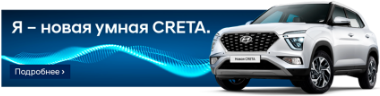
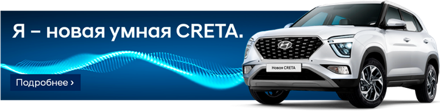
v0.16

diff --git a/js/app.js b/js/app.js
@@ -21,7 +21,7 @@ $(document).ready(function()
     template_toyota_parnas='<table><tr><td>С уважением,<br>{имя} {фамилия}<br><br>{должность}<br>Тойота Центр Парнас<br>Тел.: {tel}, {доб.}<br>Моб.: {mob}<br>Схема проезда доступна по ссылке:<br><a href="http://iat24.ru/link/63b6">http://iat24.ru/link/</a></td></tr><tr><td><img src="'+url+'logo_iat.png" alt="iat" style="margin-top:15px;"></td></tr><tr><td style="padding-top: 15px;"><a href="//iat.ru">www.iat.ru</a> | <a href="//toyotacenter.ru">www.toyotacenter.ru</a> | <a href="//lexuscenter.ru">www.lexuscenter.ru</a></td></tr><tr><td style="padding-top: 15px;">CКАЧАЙТЕ МОБИЛЬНОЕ ПРИЛОЖЕНИЕ<br><span style="color:#0088cc;">IAT CARS & SERVICE</span></td></tr><tr><td style="padding-top: 15px;"><a href="https://apps.apple.com/ru/app/iat-cars-service/id1538134096"><img src="'+url+'logo_apple.png" style="margin-right:10px;" alt="apple"></a><a href="https://play.google.com/store/apps/details?id=com.itsites.iat"><img src="'+url+'logo_google.png" alt="google"></a></td></tr></table>';
     template_toyota_volhonsky='<table><tr><td>С уважением,<br>{имя} {фамилия}<br><br>{должность}<br>Тойота Центр Волхонский<br>Тел.: {tel}, {доб.}<br>Моб.: {mob}<br>Схема проезда доступна по ссылке:<br><a href="http://iat24.ru/link/a4d5">http://iat24.ru/link/</a></td></tr><tr><td><img src="'+url+'logo_iat.png" alt="iat" style="margin-top:15px;"></td></tr><tr><td style="padding-top: 15px;"><a href="//iat.ru">www.iat.ru</a> | <a href="//toyotacenter.ru">www.toyotacenter.ru</a> | <a href="//lexuscenter.ru">www.lexuscenter.ru</a></td></tr><tr><td style="padding-top: 15px;">CКАЧАЙТЕ МОБИЛЬНОЕ ПРИЛОЖЕНИЕ<br><span style="color:#0088cc;">IAT CARS & SERVICE</span></td></tr><tr><td style="padding-top: 15px;"><a href="https://apps.apple.com/ru/app/iat-cars-service/id1538134096"><img src="'+url+'logo_apple.png" style="margin-right:10px;" alt="apple"></a><a href="https://play.google.com/store/apps/details?id=com.itsites.iat"><img src="'+url+'logo_google.png" alt="google"></a></td></tr></table>';
     template_chery_volhonsky='<table><tr><td>С уважением,<br>{имя} {фамилия}<br><br>{должность}<br>Chery | Exeed Волхонский<br>Тел.: {tel}, {доб.}<br>Моб.: {mob}<br>Схема проезда доступна по ссылке:<br><a href="http://iat24.ru/link/c0cd">http://iat24.ru/link/</a></td></tr><tr><td><img src="'+url+'logo_iat.png" alt="iat" style="margin-top:15px;"></td></tr><tr><td style="padding-top: 15px;"><a href="//iat.ru">www.iat.ru</a> | <a href="//toyotacenter.ru">www.toyotacenter.ru</a> | <a href="//lexuscenter.ru">www.lexuscenter.ru</a></td></tr><tr><td style="padding-top: 15px;">CКАЧАЙТЕ МОБИЛЬНОЕ ПРИЛОЖЕНИЕ<br><span style="color:#0088cc;">IAT CARS & SERVICE</span></td></tr><tr><td style="padding-top: 15px;"><a href="https://apps.apple.com/ru/app/iat-cars-service/id1538134096"><img src="'+url+'logo_apple.png" style="margin-right:10px;" alt="apple"></a><a href="https://play.google.com/store/apps/details?id=com.itsites.iat"><img src="'+url+'logo_google.png" alt="google"></a></td></tr></table>';
-    template_hyundai_parnas='<table style="font-size:10px;"><tr><td><img src="'+url+'logo_hyundai.png" style="width:207px;height:34px;margin-top:34px;margin-bottom:34px;"></td></tr><tr><td><b>{фамилия} {имя}</b><br><b>{отдел}</b><br><b>{должность}</b><br>T {tel}, {доб.}<br>М {mob}<br><a href="mailto:{email}">{email}</a>&nbsp;&nbsp;<a href="//hyundai-parnas.ru">www.hyundai-parnas.ru</a><br><br><b>ИАТ Парнас</b><br><b>Официальный дилер Hyundai</b></td></tr><tr><td><a href="https://hyundai-parnas.ru/NewCreta"><img src="'+url+'banner_creta.png" style="margin-top:20px;"></a></td></tr></table>';
+    template_hyundai_parnas='<table style="font-size:10px;font-family:\'Hyundai Sans Text Office\';"><tr><td><img src="'+url+'logo_hyundai.png" style="width:207px;height:34px;margin-top:34px;margin-bottom:34px;"></td></tr><tr><td><b style="font-family:\'Hyundai Sans Head Office\';">{фамилия} {имя}</b><br><b>{отдел}</b><br><b>{должность}</b><br>T {tel}, {доб.}<br>М {mob}<br><a href="mailto:{email}">{email}</a>&nbsp;&nbsp;<a href="//hyundai-parnas.ru">www.hyundai-parnas.ru</a><br><br><b>ИАТ Парнас</b><br><b>Официальный дилер Hyundai</b></td></tr><tr><td><a href="https://hyundai-parnas.ru/NewCreta"><img src="'+url+'banner_creta.png" style="margin-top:16px;width:440px;"></a></td></tr></table>';
 
 //step1
   $(".brand__logo").on('click', function(event){
